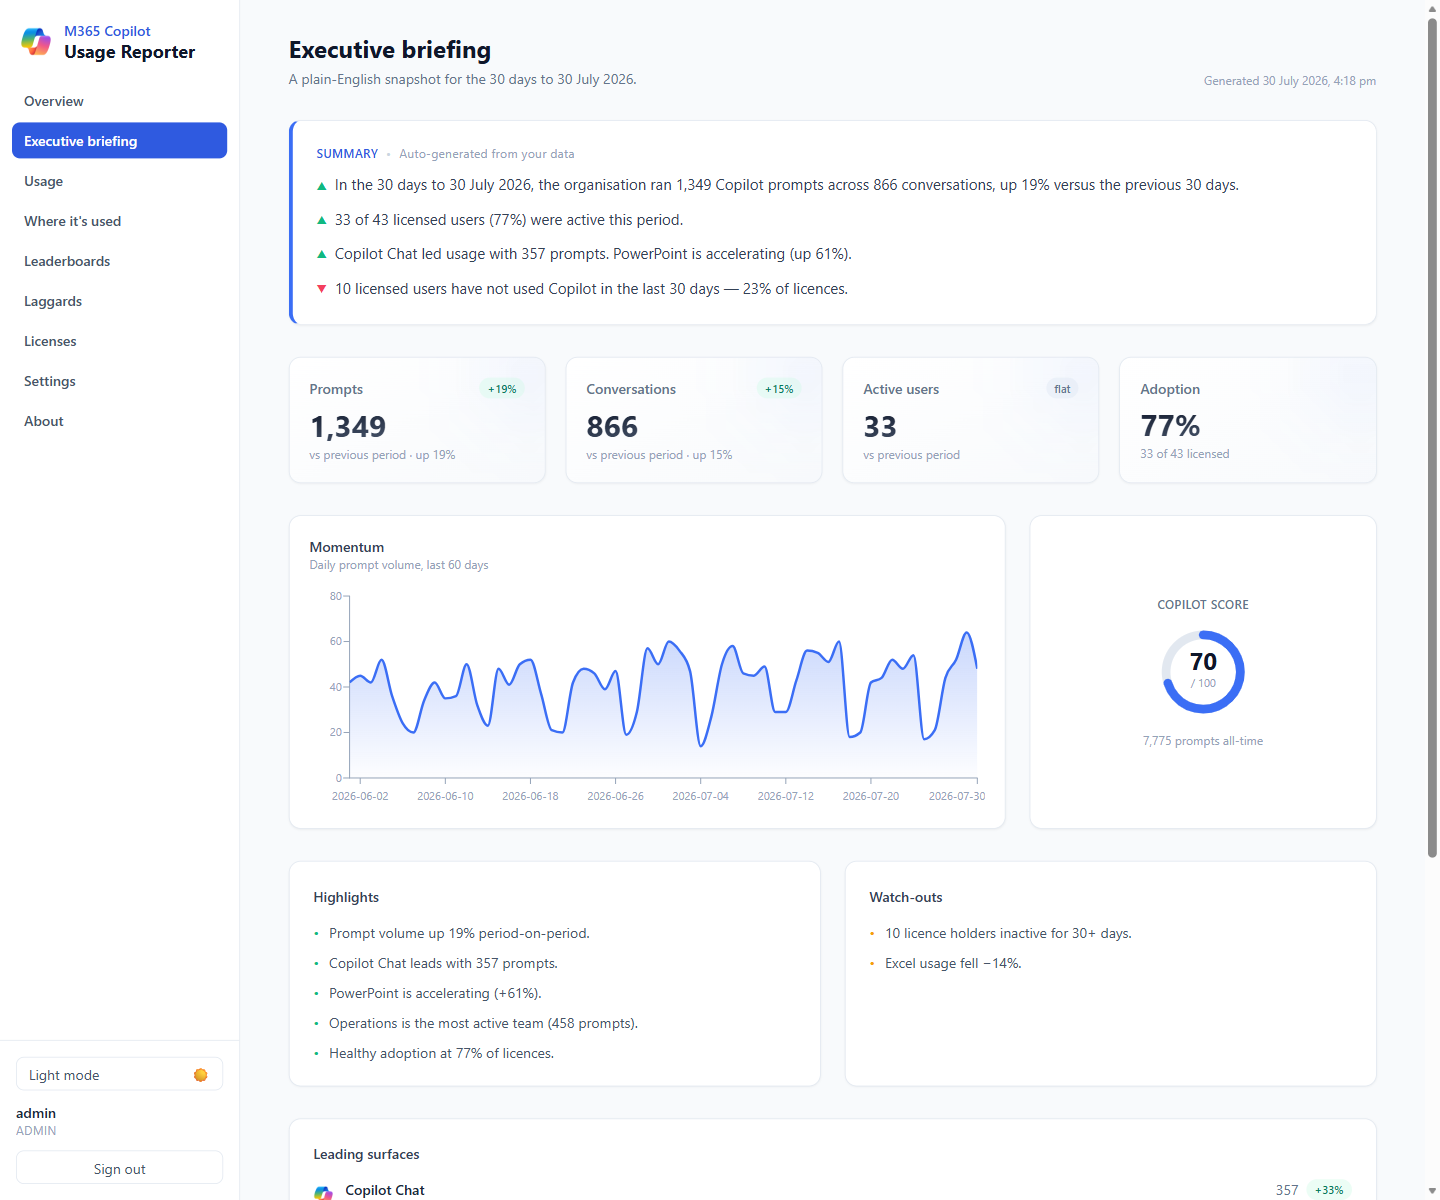
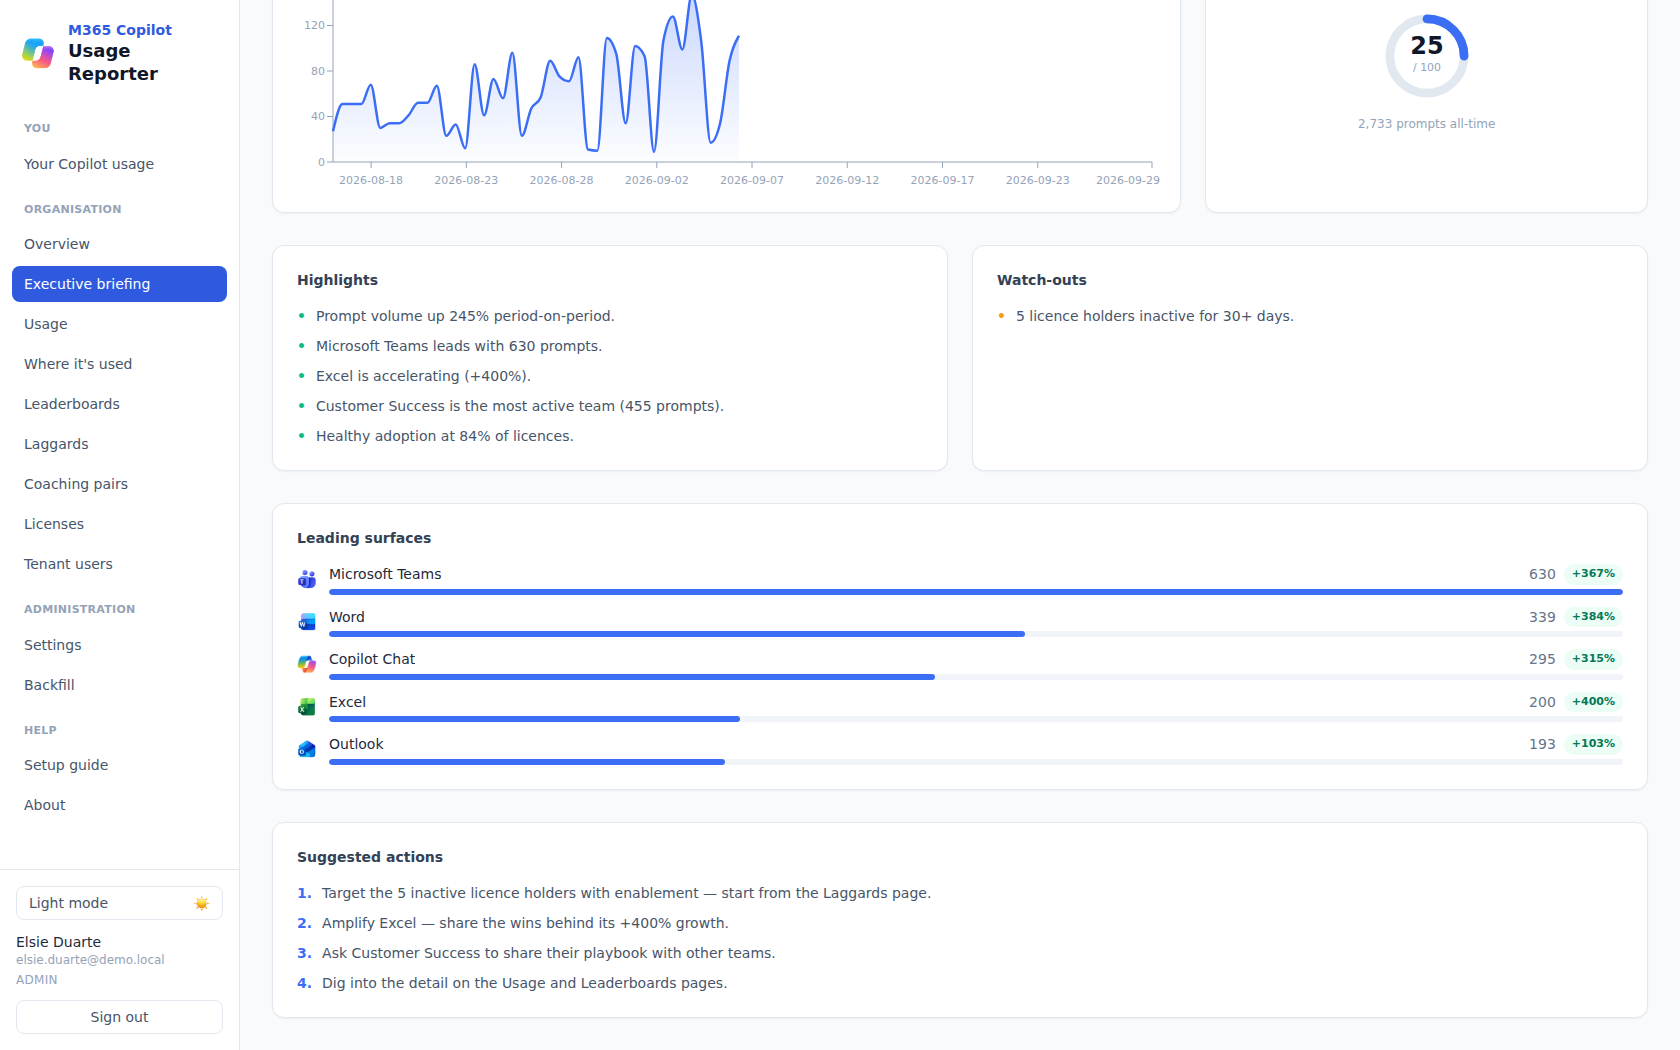
Show who is signed in properly, and refresh every screenshot
The sidebar rendered "Elsie Duarte / admin / ADMIN" once a display name was
available — the name, then the *account* name, then the role. The account name
is "admin" for the password gate and says nothing about who is on screen, so
/auth/me now reports the UPN as well and the footer shows name, then UPN, and
hides the second line when it would only repeat the first. Found by looking at
the running app; no test would have caught it.

Settings claimed "administration stays behind the admin password", which the
admin group had just made untrue.

All nine screenshots recaptured from a locally seeded instance at a consistent
1680x1050, including the four that were stale — the sidebar, the logo and the
navigation headings changed on every page, so every image was out of date, not
just the pages whose contents changed. Added Tenant users, Your Copilot usage
and Settings, and a dark-mode pair for the personal page.

README feature listings updated in both places they live, including what
"licensed" now means and what the three security groups do. Added the
desktop-only note.

docs/screenshots/README.md records how to produce these, because the only
safeguard against someone capturing them from a live tenant was that nobody had
written the procedure down.

diff --git a/frontend/src/components/Layout.tsx b/frontend/src/components/Layout.tsx
@@ -119,18 +119,25 @@ export default function Layout({ children }: { children: ReactNode }) {
           <div>
             <div
               className="truncate font-medium text-slate-800 dark:text-slate-100"
-              title={user?.display_name ?? user?.username}
+              title={user?.display_name ?? user?.upn ?? user?.username}
             >
-              {user?.display_name ?? user?.username}
+              {user?.display_name ?? user?.upn ?? user?.username}
             </div>
-            {user?.display_name && (
-              <div
-                className="truncate text-xs text-slate-400 dark:text-slate-500"
-                title={user.username}
-              >
-                {user.username}
-              </div>
-            )}
+            {/* The identifier beneath the name. Prefer the UPN — the account
+                name is "admin" for the password gate, which says nothing about
+                who is on screen. Hidden when it would just repeat the name. */}
+            {(() => {
+              const name = user?.display_name ?? user?.upn ?? user?.username;
+              const identifier = user?.upn ?? user?.username;
+              return identifier && identifier !== name ? (
+                <div
+                  className="truncate text-xs text-slate-400 dark:text-slate-500"
+                  title={identifier}
+                >
+                  {identifier}
+                </div>
+              ) : null;
+            })()}
             <div className="mb-3 mt-1 text-xs uppercase tracking-wide text-slate-400">
               {user?.role}
             </div>

diff --git a/frontend/src/auth/AuthContext.tsx b/frontend/src/auth/AuthContext.tsx
@@ -13,6 +13,9 @@ export interface User {
   /** Entra display name. Null for the password admin, and for tokens issued
    *  before display names were carried, so always fall back to the username. */
   display_name: string | null;
+  /** The person's UPN. Not always the account name — the password admin
+   *  borrows a directory identity when demo data is loaded. */
+  upn: string | null;
   /** May see organisation-wide data (admin, or in the org-view group). */
   can_view_org: boolean;
   /** Has an Entra identity to filter a personal view to. False for the

diff --git a/frontend/src/pages/SettingsPage.tsx b/frontend/src/pages/SettingsPage.tsx
@@ -293,7 +293,7 @@ export default function SettingsPage() {
               Lets colleagues sign in with their work account as read-only viewers. It
               reuses the app registration above, so there is nothing extra to create —
               you only need to register the redirect URI below. Administration stays
-              behind the admin password.
+              behind the admin password unless you name an admin group below.
             </p>
           </div>
 

diff --git a/api/schemas.py b/api/schemas.py
@@ -26,6 +26,10 @@ class UserOut(BaseModel):
     # Entra's display name. None for the password admin and for tokens issued
     # before display names were carried, so the UI falls back to the username.
     display_name: str | None = None
+    # The signed-in person's UPN. Usually the same as username for an Entra
+    # sign-in, but not when the password admin is borrowing a demo identity —
+    # there the account is "admin" and the person on screen is someone else.
+    upn: str | None = None
     # Whether this user may see organisation-wide data. Drives whether the SPA
     # offers the org view or shows it locked.
     can_view_org: bool = True

diff --git a/tests/test_auth.py b/tests/test_auth.py
@@ -75,6 +75,7 @@ async def test_admin_config_roundtrip_secret_write_only(session):
             "role": "admin",
             # The password admin has no directory identity, so no display name.
             "display_name": None,
+            "upn": None,
             "can_view_org": True,
             "has_personal_view": False,
         }

diff --git a/api/routers/auth.py b/api/routers/auth.py
@@ -175,6 +175,7 @@ async def me(
         username=user.username,
         role=await effective_role(user, session),
         display_name=user.display_name,
+        upn=user.upn,
         can_view_org=await can_view_org(user, session),
         has_personal_view=user.has_personal_view,
     )

diff --git a/README.md b/README.md
@@ -39,11 +39,37 @@ Top departments, offices, and managers, plus the most active users by prompts an
 
 ![Leaderboards](docs/screenshots/leaderboards.png)
 
+### Tenant users
+
+Everyone imported from your directory, with whether they hold a Copilot licence and how many
+prompts they have actually sent — so "licensed but never uses it" is one sort, not two exports
+matched by hand. Every column filters.
+
+![Tenant users](docs/screenshots/tenant-users.png)
+
+### Your Copilot usage
+
+What each person sees of their own activity: how much they have used Copilot, how that compares
+with the organisation median, and which apps they use it in.
+
+![Your Copilot usage](docs/screenshots/personal.png)
+
+### Settings
+
+Graph connection, refresh frequency, and the Entra security groups that govern who can see the
+report, who can see organisation-wide data, and who administers it.
+
+![Settings](docs/screenshots/settings.png)
+
 ### Dark mode
 
 Every page supports a light and dark theme.
 
 ![Overview in dark mode](docs/screenshots/overview-dark.png)
+
+![Your Copilot usage in dark mode](docs/screenshots/personal-dark.png)
+
+> These are desktop dashboards. They are built for a laptop or monitor, not a phone.
 
 ## Deploy to Azure (one click)
 
@@ -82,8 +108,9 @@ run. Nothing is ever seeded or wiped automatically.
 ### Enabling Entra ID single sign-on (optional)
 
 By default the dashboard is protected by the single admin password. You can additionally let
-colleagues sign in with their **work account** (read-only viewer role) — administration stays
-behind the password.
+colleagues sign in with their **work account** (read-only viewer role), and optionally name a
+security group whose members become administrators when they sign in — so more than one person
+can administer the report without anyone sharing a password.
 
 Sign-in is performed by the app itself, so it works the same wherever you run it: Azure, Docker
 on a NAS, Kubernetes, anywhere. There is nothing to configure on the hosting platform.
@@ -95,8 +122,17 @@ second set of credentials to manage:
 2. Copy the **redirect URI** shown there.
 3. In the Entra portal, open your app registration → **Authentication → Add a platform → Web**,
    and paste that redirect URI.
-4. Optionally set a **report access group** in Settings to restrict who can view the dashboard. If
-   you do, add a **groups** claim under **Token configuration** on the app registration.
+4. Optionally set the security groups in Settings. There are three, all optional and all taking
+   a group **object ID**:
+   - **Report access group** — restricts who can open the report at all.
+   - **Organisation view group** — members see organisation-wide data; everyone else sees only
+     their own activity. Leave blank and any signed-in user can see organisation data.
+   - **Admin group** — members become administrators. Leave blank and **nobody** gets admin this
+     way; the local admin account is unaffected either way, and is how you set this in the first
+     place.
+
+   If you set any of them, add a **groups** claim under **Token configuration** on the app
+   registration.
 
 The sign-in page then shows a **"Sign in with Microsoft"** button.
 
@@ -131,12 +167,22 @@ Full details and screenshots: [`docs/deploy.md`](docs/deploy.md#entra-single-sig
 - **Leaderboards** — top departments, offices, managers and users.
 - **Laggards** — licensed users with no activity in the window: who to coach first.
 - **Coaching pairs** — matches low-usage users with a high-usage peer in the same team.
-- **Licences** — enabled, allocated and available over time.
+- **Licences** — enabled, allocated and available over time. A person counts as licensed when
+  they hold any subscription containing the *Microsoft Copilot with Graph-grounded chat* service
+  plan **and** that plan is switched on for them — so Microsoft 365 Copilot, **Microsoft 365 E7**,
+  Copilot for Sales and any future Copilot subscription are all counted with nothing to
+  configure, and someone holding a bundle with Copilot disabled is not.
+- **Tenant users** — the imported directory with each person's licence state and prompt count,
+  filterable on every column.
 - **Settings (admin)** — Graph config (secret write-only, Fernet-encrypted), a guided
   app-registration wizard, test connection, run now, demo data, and a resumable **backfill** with
   live progress.
 - **Entra single sign-on (optional)** — colleagues view the report with their work account
-  (read-only), optionally gated to an Entra security group.
+  (read-only), optionally gated to an Entra security group. Naming an **admin group** gives its
+  members administrator rights when they sign in, so administering the report no longer means
+  sharing one password. Membership is re-checked on every request, so removing someone takes
+  effect in minutes rather than at their next sign-in.
+- Signed-in people are shown by **name**, not just their user principal name.
 - Global date-range and app **filters**, **CSV export**, and a **light/dark** theme throughout.
 
 ## Prerequisites & permissions

diff --git a/docs/screenshots/README.md b/docs/screenshots/README.md
@@ -1,0 +1,47 @@
+# Screenshots
+
+All screenshots in this folder are captured from a throwaway local instance
+running seeded demo data. **Never capture them from a deployment connected to a
+real tenant** — every name, department and prompt count would be real.
+
+## Producing them
+
+1. Bring the stack up somewhere with Docker Compose, using a copy of the repo
+   and its own database:
+
+       cp .env.example .env
+       # set FERNET_KEY (see the comment in .env) and pick free ports
+       docker compose up -d --build
+
+2. Sign in with the `ADMIN_USERNAME` / `ADMIN_PASSWORD` from `.env`. Leave the
+   Entra fields in Settings **empty** — with no tenant credentials configured the
+   app cannot make a Graph call, which is what keeps a screenshot run safely
+   away from live data.
+
+3. Settings → Demo data → **Load demo data**, then sign out and in again. The
+   sign-in picks up the demo persona, which is what makes the personal pages
+   ("Your Copilot usage") show anything.
+
+4. Capture at a **1680 × 1050** viewport so the sidebar and the widest tables fit
+   without horizontal scrolling. Existing files use that size; matching it keeps
+   the README images consistent.
+
+5. Use the theme toggle in the sidebar for the `-dark` variants.
+
+## Naming
+
+`<page>.png`, with `<page>-dark.png` for the dark-mode pair where one exists.
+Every file here should be referenced from `README.md`; an unreferenced
+screenshot is either a missing section or a leftover to delete.
+
+## Current set
+
+| File | Page |
+|---|---|
+| `overview.png` / `overview-dark.png` | Overview |
+| `briefing.png` | Executive briefing |
+| `usage.png` | Usage |
+| `leaderboards.png` | Leaderboards |
+| `tenant-users.png` | Tenant users |
+| `personal.png` / `personal-dark.png` | Your Copilot usage |
+| `settings.png` | Settings |
